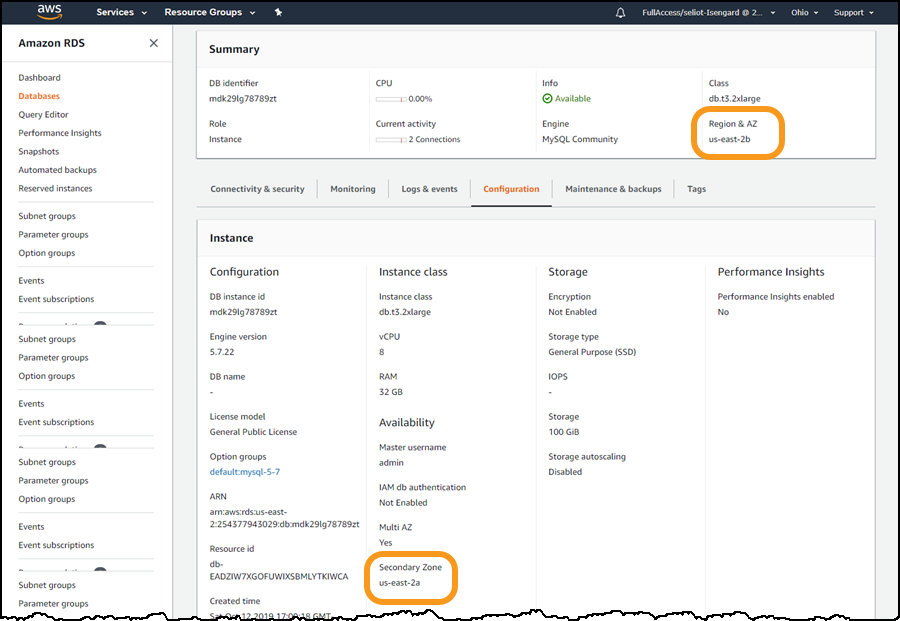
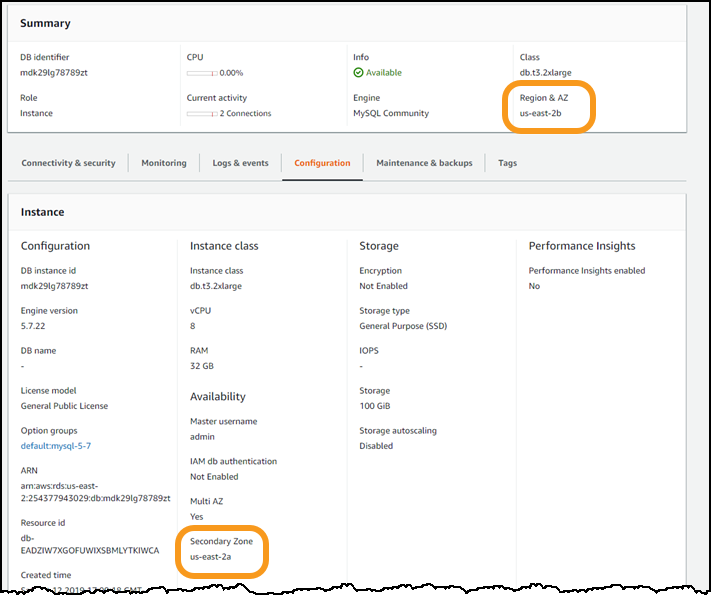
Lab Guide changes for REL300 - pt 10

diff --git a/Reliability/300_Testing_for_Resiliency_of_EC2_RDS_and_S3/Code/FailureSimulations/java/appresiliency/src/main/java/com/app/resiliency/AZFailover.java b/Reliability/300_Testing_for_Resiliency_of_EC2_RDS_and_S3/Code/FailureSimulations/java/appresiliency/src/main/java/com/app/resiliency/AZFailover.java
@@ -150,7 +150,7 @@ public class AZFailover {
                 RDS_CLIENT.rebootDBInstance(rebootDBInstanceRequest);
             }
         } catch (Exception exception) {
-            System.out.println("Unkown exception occured " + exception.getMessage());
+            System.out.println("Unknown exception occurred " + exception.getMessage());
         }
 
     }

diff --git a/Reliability/300_Testing_for_Resiliency_of_EC2_RDS_and_S3/Lab_Guide.md b/Reliability/300_Testing_for_Resiliency_of_EC2_RDS_and_S3/Lab_Guide.md
@@ -246,7 +246,7 @@ Before testing, please prepare the following:
 
     | |
     |:---:|
-    |**Availability Zones** (**AZ**s) are isolated sets of resources within a region, each with redundant power, networking, and connectivity, housed in separate facilities. Each Availability Zone is isolated, but the Availability Zones in a Region are connected through low-latency links. AWS provides you with the flexibility to place instances and store data within across multiple Availability Zones within each AWS Region for high resiliency.|
+    |**Availability Zones** (**AZ**s) are isolated sets of resources within a region, each with redundant power, networking, and connectivity, housed in separate facilities. Each Availability Zone is isolated, but the Availability Zones in a Region are connected through low-latency links. AWS provides you with the flexibility to place instances and store data across multiple Availability Zones within each AWS Region for high resiliency.|
     |*__Learn more__: After the lab [see this whitepaper](https://docs.aws.amazon.com/whitepapers/latest/aws-overview/global-infrastructure.html) on regions and availability zones*|
 
 ### 3.1 EC2 failure injection
@@ -396,13 +396,14 @@ Watch how the service responds. Note how AWS systems help maintain service avail
 
 1. The website is _not_ available. Some errors you might see reported:
    * **No Response / Timeout**: Request was successfully sent to EC2 server, but server no longer has connection to an active database
-   * **504 Gateway Time-out**: Amazon Elastic Load Balancer has removed the servers that are unable to repsond and added new ones, but the new ones have not yet finished initialization, and there are no healthy hosts to receive the request.
+   * **504 Gateway Time-out**: Amazon Elastic Load Balancer has removed the servers that are unable to repsond and added new ones, but the new ones have not yet finished initialization, and there are no healthy hosts to receive the request
+   * **502 Bad Gateway**: The Amazon Elastic Load Balancer got a bad request from the server
 
 1. Continue on to the next steps, periodically returning to attempt to refresh the website.
 
 #### 3.4.2 Failover to standby
 
-1. On the database console **Configuration** tab 
+1. On the database console **Configuration** tab
    1. Refresh and note the values of the **Info** field. It will ultimately return to **Available** then the failover is complete
    1. Note the AZs for the _primary_ and _standby_ instances. They have swapped as the _standby_ has no taken over _primary_ responsibility, and the former _primary_ has been restarted.
 
@@ -410,34 +411,47 @@ Watch how the service responds. Note how AWS systems help maintain service avail
 
    1. From the AWS RDS console, click on the **Logs & events** tab and scroll down to **Recent events**. You should see entries like those below. In this case failover took less than a minute.
 
-          Mon, 14 Oct 2019 19:53:37 GMT	Multi-AZ instance failover started.
-          Mon, 14 Oct 2019 19:53:45 GMT	DB instance restarted
-          Mon, 14 Oct 2019 19:54:21 GMT	Multi-AZ instance failover completed
+          Mon, 14 Oct 2019 19:53:37 GMT - Multi-AZ instance failover started.
+          Mon, 14 Oct 2019 19:53:45 GMT - DB instance restarted
+          Mon, 14 Oct 2019 19:54:21 GMT - Multi-AZ instance failover completed
 
-### 3.4.3 EC2 server replacement
+### 3.5 EC2 server replacement
 
-1. From the AWS RDS console, click on the **Monitoring** tab and look at **DB connections**. 
+1. From the AWS RDS console, click on the **Monitoring** tab and look at **DB connections**.
     * As the failover happens the existing three servers all cannot connect to the DB
-    * AWS Auto Scaling detects this, and replaces the three EC2 instances with new ones that establish new connections to the new RDS _primary_ instance
+    * AWS Auto Scaling detects this (any server not returning an http 200 status is deemed unhealthy), and replaces the three EC2 instances with new ones that establish new connections to the new RDS _primary_ instance
     * The graph shows an unavailability period of about four minutes until at least one DB connection is re-established
 
       ![RDSDbConnections](Images/RDSDbConnections.png)
 
 1. [optional] Go to the [Auto scaling group](http://console.aws.amazon.com/ec2/autoscaling/home?region=us-east-2#AutoScalingGroups:) and AWS Elastic Load Balancer [Target group](http://console.aws.amazon.com/ec2/v2/home?region=us-east-2#TargetGroups:) consoles to see how EC2 instance and traffic routing was handled
 
-#### 3.4.3 RDS failure injection - conclusion
+#### 3.5.1 RDS failure injection - conclusion
 
 * AWS RDS Database failover took less than a minute
 * Time for AWS Auto Scaling to detect that the instances were unhealthy and to start up new ones took four minutes. This resulted in a four minute non-availability event.
 
 *__Learn more__: After the lab see [High Availability (Multi-AZ) for Amazon RDS](https://docs.aws.amazon.com/AmazonRDS/latest/UserGuide/Concepts.MultiAZ.html) for more details on high availability and failover support for DB instances using Multi-AZ deployments.*
 
+### 3.6 AZ failure injection
 
+This failure injection will simulate a critical problem with one of the three AWS Availability Zones (AZs) used by your service. AWS Availability Zones are  powerful tools for helping build highly available applications. If an application is partitioned across AZs, companies are better isolated and protected from issues such as lightning strikes, tornadoes, earthquakes and more.
 
+1. Go to the RDS Dashboard in the AWS Console at <http://console.aws.amazon.com/rds> and note which Availability Zone the AWS RDS _primary_ DB instance is in.
+   * A good way to run the AZ failure injection is first in an AZ _other_ than this - we'll call this **Scenario 1**
+   * Then try it again in the _same_ AZ as the AWS RDS _primary_ DB instance - we'll call this **Scenario 2**
+   * Taking down two out of the three AZs this way is an unlikely use case, however it will show how AWS systems work to maintain service integrity despite extreme circumstances.
+   * And executing this way illustrates the impact and response under the two different scenarios.
 
-### 3.5 AZ failure injection
+1. To simulate failure of an AZ, select one of the AVailability Zones used by your service (`us-east-2a`, `us-east-2b`, or `us-east-2c`) as `<az>` 
+   * For **scenario 1** select an AZ that is neither _primary_ nor _secondary_ for your RDS DB instance. Given the following RDS console you would choose `us-east-2c`
+   * For **scenario 2** select the AZ that is _primary_ for your RDS DB instance. Given the following RDS console you would choose `us-east-2b`
 
-1. To simulate failure of an AZ, use the VPC ID as the command line argument replacing `<vpc-id>` in _one_ (and only one) of the scripts/programs below. (choose the language that you setup your environment for). `<az>` is one of the availability zones the service uses. It is a value like `us-east-2a`, `us-east-2b`, or `us-east-2c`
+      ![DBConfigurationShort](Images/DBConfigurationShort.png)
+
+1. use your VPC ID as `<vpc-id>`
+
+1. Select _one_ (and only one) of the scripts/programs below. (choose the language that you setup your environment for).
 
     | Language   | Command                                             |
     | :--------- | :-------------------------------------------------- |
@@ -447,24 +461,60 @@ Watch how the service responds. Note how AWS systems help maintain service avail
     | C#         | `.\AppResiliency AZ <vpc-id> <az>`                  |
     | PowerShell | `.\fail_az.ps1 <az> <vpc-id>`                       |
 
-What is the expected effect? How long does it take to take effect? Look at the Target Group Targets to see them go unhealthy, also watch the EC2 instances to see the one in the target AZ shutdown and be restarted in one of the other AZs.
-What would you do if the ASG was only in one AZ? You could call the AutoScaling SuspendProcesses and then get the list of instances in the group and call EC2 StopInstances or TerminateInstances. How would you undo all these changes?
+1. The specific output will vary based on the command used.
+    * Note whether an RDS failover was initiated.  This would be the case if you selected the AZ containing the AWS RDS _primary_ DB instance
 
-### 3.6 System response to AZ failure
+### 3.7 System response to AZ failure
 
-### 3.7 S3 failure injection
+Watch how the service responds. Note how AWS systems help maintain service availability. Test if there is any non-availability, and if so then how long.
 
-1. Failure of S3 means that the image will not be available.
+#### 3.7.1 System availability
 
-* Failure in bash: The bash commands available do not allow for modification of the access permissions, so you'll have to do the work in the console.
+Refresh the service website several times
+
+* **Scenario 1**: If you selected an AZ _not_ containing the AWS RDS _primary_ DB instance then you should see uninterrupted availability
+* **Scenario 2**: If you selected the AZ containing the AWS RDS _primary_ DB instance, then an availability loss similar to what you saw with RDS fault injection testing will occur.
+
+#### 3.7.2 Scenario 1 - Load balancer and web server tiers
+
+This scenario is similar to the EC2 failure injection test because there is only one EC2 server per AZ in our architecture. Look at the same screens you as for that test: EC2 Instances, Load Balancer Target Groups, Auto Scaling Groups.  One difference you wil observe is that auto scaling will bring up the replacement EC2 instance in an AZ that already has an EC2 instance as it attempts to balance the requested three EC2 instances across the remaining AZs.
+
+#### 3.7.3 Scenario 2 - Load balancer, web server, and data tiers
+
+This scenario is similar to a combination of the RDS failure injection along with EC2 failure injection. In addition to the EC2 related screens look at RDS instance monitoring, Configuration, and Logs & Events.
+
+#### 3.7.4 AZ failure injection - conclusion
+
+This is similarity between **scenario 1** and the EC2 failure test, and between **scenario 2** and the RDS failure test is illustrative of how an AZ failure impacts your system. The resources in that AZ will have no or limited availability. With the strong partitioning and isolation between Availability Zones however, resources in the other AZs continue to provide your service with needed functionality. **Scenario 1** results in loss of the load balancer and web server capabilities in one AZ, while **Scenario 2** adds to that the additional loss of the data tier. By ensuring that every tier of your system is in multiple AZs, you create a partitioned architecture resilient to failure.
+
+### 3.8 S3 failure injection
+
+1. Failure of S3 means that the image will not be available
+1. You may ONLY do this testing if you supplied your own `websiteimage` reference to an S3 bucket you control
+
+Choose to use _either_ the command line or AWS Console
+
+#### Command line
+
+* The following command will disable public read from an entire bucket. If you want to only disable public read from one object, use the **AWS Console** instructions
+* If 
+  * your `websiteimage` was `"https://s3.us-east-2.amazonaws.com/arc327-well-architected-for-reliability/Cirque_of_the_Towers.jpg"` 
+  * then `<bucket-name>` would be `arc327-well-architected-for-reliability`
+
+      aws ssm start-automation-execution --document-name AWS-DisableS3BucketPublicReadWrite --parameters "{\"S3BucketName\": [\"<bucket-name>\"]}"
+
+#### AWS Console
+
   1. Navigate to the S3 console: <https://console.aws.amazon.com/s3>
   1. Select the bucket where the image is located. In my example, this is the bucket "arc327-well-architected-for-reliability"
   1. Select the object, then select the "Permissions" tab:
-  1. Select the "Public Access" radio button, and deselect the "Read object" box:
+  1. Select the "Public Access" radio button, and deselect the "Read object" box
+
+#### System response to S3 failure
 
 What is the expected effect? How long does it take to take effect? How would you diagnose if this is a larger problem than permissions?
 
-### 3.5 More testing you can do
+### 3.9 More testing you can do
 
 You can use drift detection in the CloudFormation console to see what had changed, or work on code to heal their failure modes.  
 
